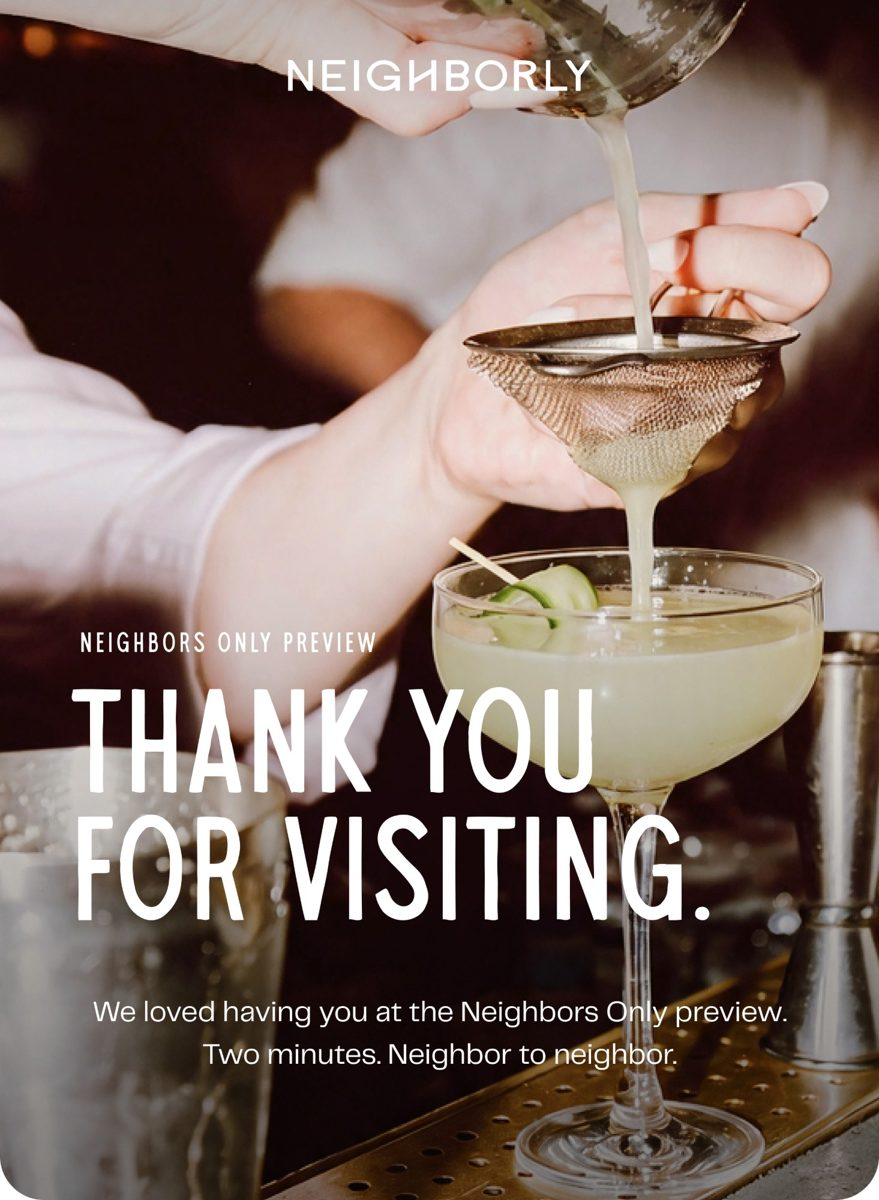
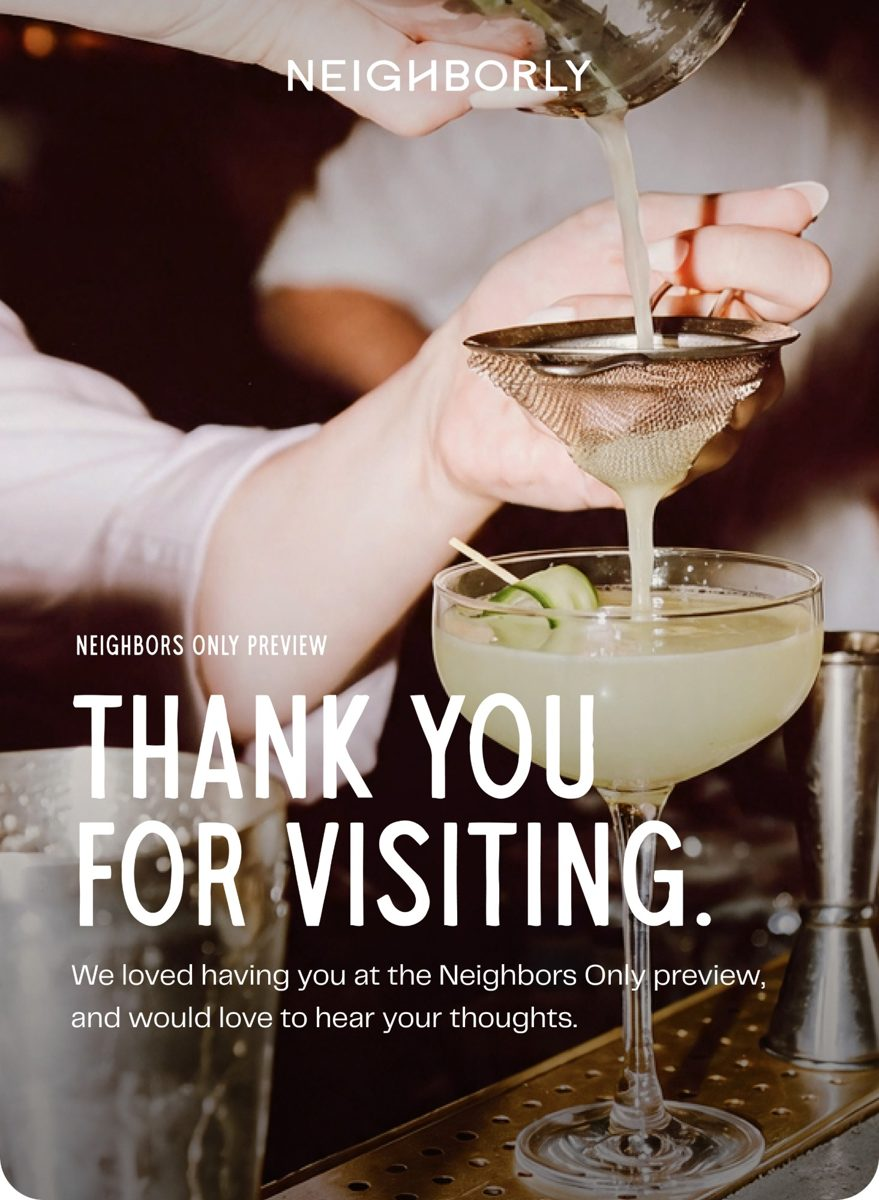
Feedback email: new artwork, subject 'We would love to hear your thoughts'
Claude-Session: https://claude.ai/code/session_01U5FqU4ayNBnSkp4xF31ruh

Changed region(s): [[0.0922, 0.5242, 0.8294, 0.7708], [0.0922, 0.8017, 0.8908, 0.8942]]

diff --git a/api/_mail.js b/api/_mail.js
@@ -142,7 +142,7 @@ function survey(t) {
   const day = v ? v.longLabel : (t.redeemedAt ? new Date(t.redeemedAt).toLocaleDateString('en-US', { weekday: 'long', month: 'long', day: 'numeric', timeZone: 'America/Los_Angeles' }) : 'Your visit');
   const headline = 'Thank you for visiting.';
   const intro = 'We loved having you at the Neighbors Only preview. Two minutes. Neighbor to neighbor.';
-  const subject = `How was it, ${first}?`;
+  const subject = 'We would love to hear your thoughts';
   const text = [`Thank you for visiting, ${first}.`, '', intro, '', `Tell us how it was: ${link}`, '', 'Neighborly'].join('\n');
   const html = surveyHtml({ survey_link: link });
   const params = {
